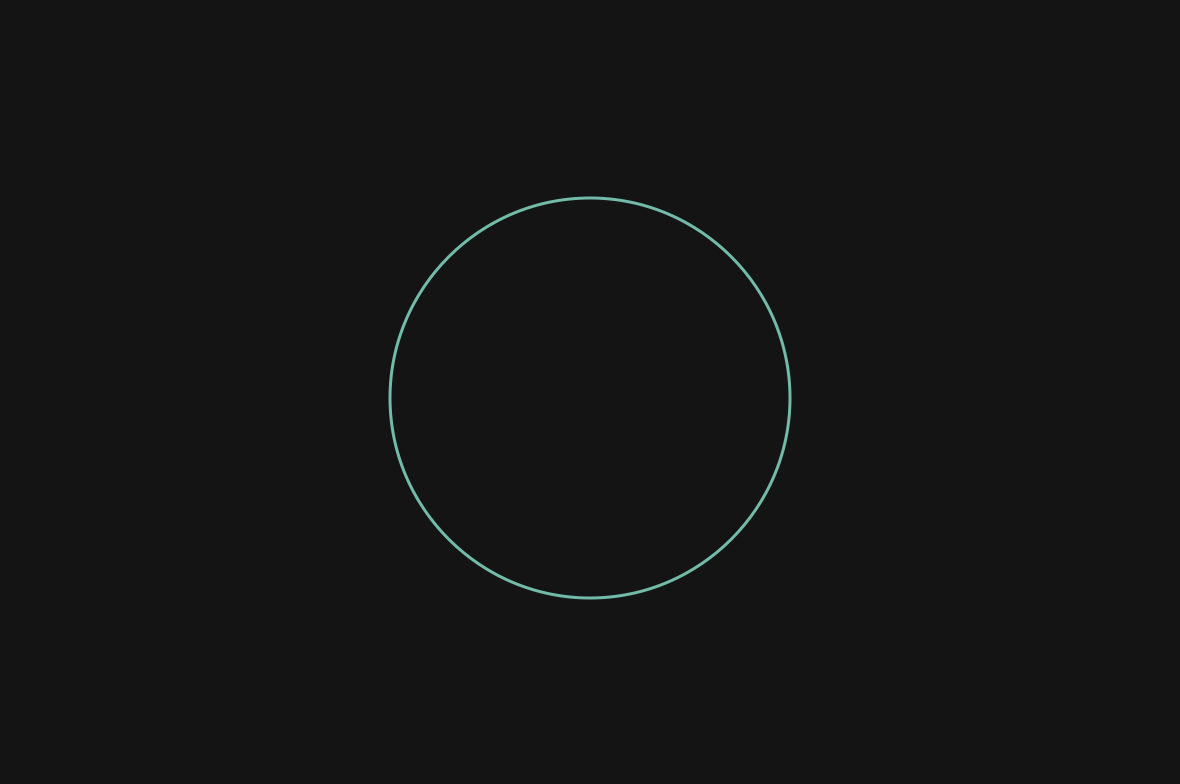
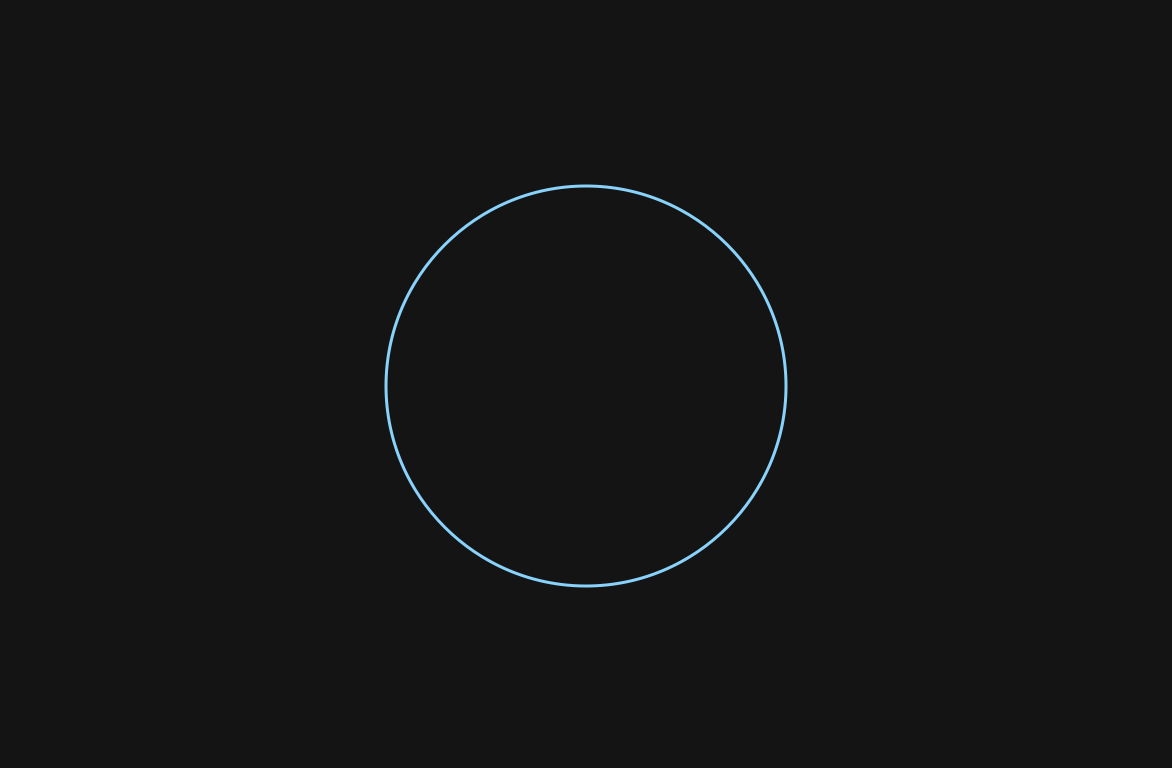
fixed juce-graphics-draw-examples article

diff --git a/posts/juce-graphics-draw-examples.md b/posts/juce-graphics-draw-examples.md
@@ -12,11 +12,11 @@ image: 'https://suzuki-kengo.dev/images/juce-graphics-draw-examples/juce-graphic
 void MainComponent::paint (juce::Graphics& g)
 {
     auto black = juce::Colour::fromFloatRGBA (0.08f, 0.08f, 0.08f, 1.0f);
-    auto green = juce::Colour::fromFloatRGBA (0.34f, 0.74f, 0.66f, 1.0f);
+    auto blue  = juce::Colour::fromFloatRGBA (0.43f, 0.83f, 1.0f,  1.0f);
 
     g.fillAll (black);
 
-    g.setColour (green);
+    g.setColour (blue);
     g.setFont (25.0f);
     g.drawSingleLineText ("Suzuki Kengo", 300, 200,
                           juce::Justification::right);
@@ -31,11 +31,11 @@ void MainComponent::paint (juce::Graphics& g)
 void MainComponent::paint (juce::Graphics& g)
 {
     auto black = juce::Colour::fromFloatRGBA (0.08f, 0.08f, 0.08f, 1.0f);
-    auto green = juce::Colour::fromFloatRGBA (0.34f, 0.74f, 0.66f, 1.0f);
+    auto blue  = juce::Colour::fromFloatRGBA (0.43f, 0.83f, 1.0f,  1.0f);
 
     g.fillAll (black);
 
-    g.setColour (green);
+    g.setColour (blue);
     g.setFont (25.0f);
     g.drawMultiLineText ("Suzuki Kengo", 350, 100, 50,
                          juce::Justification::left,
@@ -51,11 +51,11 @@ void MainComponent::paint (juce::Graphics& g)
 void MainComponent::paint (juce::Graphics& g)
 {
     auto black = juce::Colour::fromFloatRGBA (0.08f, 0.08f, 0.08f, 1.0f);
-    auto green = juce::Colour::fromFloatRGBA (0.34f, 0.74f, 0.66f, 1.0f);
+    auto blue  = juce::Colour::fromFloatRGBA (0.43f, 0.83f, 1.0f,  1.0f);
 
     g.fillAll (black);
 
-    g.setColour (green);
+    g.setColour (blue);
     g.setFont (25.0f);
     g.drawText ("Suzuki Kengo",
                 getLocalBounds().withSizeKeepingCentre (50, 50),
@@ -70,11 +70,11 @@ void MainComponent::paint (juce::Graphics& g)
 void MainComponent::paint (juce::Graphics& g)
 {
     auto black = juce::Colour::fromFloatRGBA (0.08f, 0.08f, 0.08f, 1.0f);
-    auto green = juce::Colour::fromFloatRGBA (0.34f, 0.74f, 0.66f, 1.0f);
+    auto blue  = juce::Colour::fromFloatRGBA (0.43f, 0.83f, 1.0f,  1.0f);
 
     g.fillAll (black);
 
-    g.setColour (green);
+    g.setColour (blue);
     g.setFont (25.0f);
     g.drawText ("Suzuki Kengo",
                 getLocalBounds().withSizeKeepingCentre (50, 100),
@@ -91,11 +91,11 @@ void MainComponent::paint (juce::Graphics& g)
 void MainComponent::paint (juce::Graphics& g)
 {
     auto black = juce::Colour::fromFloatRGBA (0.08f, 0.08f, 0.08f, 1.0f);
-    auto green = juce::Colour::fromFloatRGBA (0.34f, 0.74f, 0.66f, 1.0f);
+    auto blue  = juce::Colour::fromFloatRGBA (0.43f, 0.83f, 1.0f,  1.0f);
 
     g.fillAll (black);
 
-    g.setColour (green);
+    g.setColour (blue);
     g.setFont (25.0f);
     g.drawFittedText ("Suzuki Kengo",
                       getLocalBounds().withSizeKeepingCentre (150, 50),
@@ -110,11 +110,11 @@ void MainComponent::paint (juce::Graphics& g)
 void MainComponent::paint (juce::Graphics& g)
 {
     auto black = juce::Colour::fromFloatRGBA (0.08f, 0.08f, 0.08f, 1.0f);
-    auto green = juce::Colour::fromFloatRGBA (0.34f, 0.74f, 0.66f, 1.0f);
+    auto blue  = juce::Colour::fromFloatRGBA (0.43f, 0.83f, 1.0f,  1.0f);
 
     g.fillAll (black);
 
-    g.setColour (green);
+    g.setColour (blue);
     g.setFont (25.0f);
     g.drawFittedText ("Suzuki Kengo",
                       getLocalBounds().withSizeKeepingCentre (80, 50),
@@ -131,11 +131,11 @@ void MainComponent::paint (juce::Graphics& g)
 void MainComponent::paint (juce::Graphics& g)
 {
     auto black = juce::Colour::fromFloatRGBA (0.08f, 0.08f, 0.08f, 1.0f);
-    auto green = juce::Colour::fromFloatRGBA (0.34f, 0.74f, 0.66f, 1.0f);
+    auto blue  = juce::Colour::fromFloatRGBA (0.43f, 0.83f, 1.0f,  1.0f);
 
     g.fillAll (black);
 
-    g.setColour (green);
+    g.setColour (blue);
     g.drawRect (getLocalBounds().withSizeKeepingCentre (300.0f, 100.0f));
 }
 ```
@@ -148,11 +148,11 @@ void MainComponent::paint (juce::Graphics& g)
 void MainComponent::paint (juce::Graphics& g)
 {
     auto black = juce::Colour::fromFloatRGBA (0.08f, 0.08f, 0.08f, 1.0f);
-    auto green = juce::Colour::fromFloatRGBA (0.34f, 0.74f, 0.66f, 1.0f);
+    auto blue  = juce::Colour::fromFloatRGBA (0.43f, 0.83f, 1.0f,  1.0f);
 
     g.fillAll (black);
 
-    g.setColour (green);
+    g.setColour (blue);
     g.drawRoundedRectangle (getLocalBounds().toFloat().withSizeKeepingCentre (300.0f, 100.0f),
                             50.0f, 2.0f);
 }
@@ -166,11 +166,11 @@ void MainComponent::paint (juce::Graphics& g)
 void MainComponent::paint (juce::Graphics& g)
 {
     auto black = juce::Colour::fromFloatRGBA (0.08f, 0.08f, 0.08f, 1.0f);
-    auto green = juce::Colour::fromFloatRGBA (0.34f, 0.74f, 0.66f, 1.0f);
+    auto blue  = juce::Colour::fromFloatRGBA (0.43f, 0.83f, 1.0f,  1.0f);
 
     g.fillAll (black);
 
-    g.setColour (green);
+    g.setColour (blue);
     g.drawEllipse (getLocalBounds().toFloat().withSizeKeepingCentre (200.0f, 200.0f),
                    1.5f);
 }
@@ -184,11 +184,11 @@ void MainComponent::paint (juce::Graphics& g)
 void MainComponent::paint (juce::Graphics& g)
 {
     auto black = juce::Colour::fromFloatRGBA (0.08f, 0.08f, 0.08f, 1.0f);
-    auto green = juce::Colour::fromFloatRGBA (0.34f, 0.74f, 0.66f, 1.0f);
+    auto blue  = juce::Colour::fromFloatRGBA (0.43f, 0.83f, 1.0f,  1.0f);
 
     g.fillAll (black);
 
-    g.setColour (green);
+    g.setColour (blue);
     g.drawLine (juce::Line<float> (50.0f, 150.0f, 450.0f, 250.0f), 2.0f);
 }
 ```
@@ -201,12 +201,12 @@ void MainComponent::paint (juce::Graphics& g)
 void MainComponent::paint (juce::Graphics& g)
 {
     auto black = juce::Colour::fromFloatRGBA (0.08f, 0.08f, 0.08f, 1.0f);
-    auto green = juce::Colour::fromFloatRGBA (0.34f, 0.74f, 0.66f, 1.0f);
+    auto blue  = juce::Colour::fromFloatRGBA (0.43f, 0.83f, 1.0f,  1.0f);
 
     g.fillAll (black);
 
     const float dashLength[] = { 5.0f, 7.0f, 5.0f, 15.0f };
-    g.setColour (green);
+    g.setColour (blue);
     g.drawDashedLine (juce::Line<float> (50.0f, 100.0f, 550.0f, 200.0f),
                       dashLength, 4, 5.0f, 2);
 }
@@ -218,12 +218,12 @@ void MainComponent::paint (juce::Graphics& g)
 void MainComponent::paint (juce::Graphics& g)
 {
     auto black = juce::Colour::fromFloatRGBA (0.08f, 0.08f, 0.08f, 1.0f);
-    auto green = juce::Colour::fromFloatRGBA (0.34f, 0.74f, 0.66f, 1.0f);
+    auto blue  = juce::Colour::fromFloatRGBA (0.43f, 0.83f, 1.0f,  1.0f);
 
     g.fillAll (black);
 
     const float dashLength[] = { 5.0f, 20.0f, 5.0f, 50.0f };
-    g.setColour (green);
+    g.setColour (blue);
     g.drawDashedLine (juce::Line<float> (50.0f, 250.0f, 550.0f, 100.0f),
                       dashLength, 4, 5.0f, 0);
 }
@@ -237,11 +237,11 @@ void MainComponent::paint (juce::Graphics& g)
 void MainComponent::paint (juce::Graphics& g)
 {
     auto black = juce::Colour::fromFloatRGBA (0.08f, 0.08f, 0.08f, 1.0f);
-    auto green = juce::Colour::fromFloatRGBA (0.34f, 0.74f, 0.66f, 1.0f);
+    auto blue  = juce::Colour::fromFloatRGBA (0.43f, 0.83f, 1.0f,  1.0f);
 
     g.fillAll (black);
 
-    g.setColour (green);
+    g.setColour (blue);
     g.drawVerticalLine (300, 0.0f, 250.0f);
 }
 ```
@@ -254,11 +254,11 @@ void MainComponent::paint (juce::Graphics& g)
 void MainComponent::paint (juce::Graphics& g)
 {
     auto black = juce::Colour::fromFloatRGBA (0.08f, 0.08f, 0.08f, 1.0f);
-    auto green = juce::Colour::fromFloatRGBA (0.34f, 0.74f, 0.66f, 1.0f);
+    auto blue  = juce::Colour::fromFloatRGBA (0.43f, 0.83f, 1.0f,  1.0f);
 
     g.fillAll (black);
 
-    g.setColour (green);
+    g.setColour (blue);
     g.drawHorizontalLine (200, 0.0f, 450.0f);
 }
 ```
@@ -271,11 +271,11 @@ void MainComponent::paint (juce::Graphics& g)
 void MainComponent::paint (juce::Graphics& g)
 {
     auto black = juce::Colour::fromFloatRGBA (0.08f, 0.08f, 0.08f, 1.0f);
-    auto green = juce::Colour::fromFloatRGBA (0.34f, 0.74f, 0.66f, 1.0f);
+    auto blue  = juce::Colour::fromFloatRGBA (0.43f, 0.83f, 1.0f,  1.0f);
 
     g.fillAll (black);
 
-    g.setColour (green);
+    g.setColour (blue);
     g.drawArrow (juce::Line<float> (100.0f, 100.0f, 500.0f, 250.0f),
                  2.5f, 50.0f, 50.0f);
 }
@@ -289,14 +289,14 @@ void MainComponent::paint (juce::Graphics& g)
 void MainComponent::paint (juce::Graphics& g)
 {
     auto black = juce::Colour::fromFloatRGBA (0.08f, 0.08f, 0.08f, 1.0f);
-    auto green = juce::Colour::fromFloatRGBA (0.34f, 0.74f, 0.66f, 1.0f);
+    auto blue  = juce::Colour::fromFloatRGBA (0.43f, 0.83f, 1.0f,  1.0f);
 
     g.fillAll (black);
 
     auto testImage = juce::Image (juce::Image::PixelFormat::ARGB,
                                   200, 200, true);
     juce::Graphics testGraphics (testImage);
-    testGraphics.setColour (green);
+    testGraphics.setColour (blue);
     testGraphics.fillRect (testImage.getBounds());
 
     g.drawImageAt (testImage, 50, 100);
@@ -311,14 +311,14 @@ void MainComponent::paint (juce::Graphics& g)
 void MainComponent::paint (juce::Graphics& g)
 {
     auto black = juce::Colour::fromFloatRGBA (0.08f, 0.08f, 0.08f, 1.0f);
-    auto green = juce::Colour::fromFloatRGBA (0.34f, 0.74f, 0.66f, 1.0f);
+    auto blue  = juce::Colour::fromFloatRGBA (0.43f, 0.83f, 1.0f,  1.0f);
 
     g.fillAll (black);
 
     auto testImage = juce::Image (juce::Image::PixelFormat::ARGB,
                                   200, 200, true);
     juce::Graphics testGraphics (testImage);
-    testGraphics.setColour (green);
+    testGraphics.setColour (blue);
     testGraphics.fillRect (testImage.getBounds());
 
     g.drawImage (testImage, getLocalBounds().toFloat(),
@@ -334,14 +334,14 @@ void MainComponent::paint (juce::Graphics& g)
 void MainComponent::paint (juce::Graphics& g)
 {
     auto black = juce::Colour::fromFloatRGBA (0.08f, 0.08f, 0.08f, 1.0f);
-    auto green = juce::Colour::fromFloatRGBA (0.34f, 0.74f, 0.66f, 1.0f);
+    auto blue  = juce::Colour::fromFloatRGBA (0.43f, 0.83f, 1.0f,  1.0f);
 
     g.fillAll (black);
 
     auto testImage = juce::Image (juce::Image::PixelFormat::ARGB,
                                   200, 200, true);
     juce::Graphics testGraphics (testImage);
-    testGraphics.setColour (green);
+    testGraphics.setColour (blue);
     testGraphics.fillRect (testImage.getBounds());
 
     g.drawImageTransformed (testImage, juce::AffineTransform::translation (300, 100));
@@ -356,14 +356,14 @@ void MainComponent::paint (juce::Graphics& g)
 void MainComponent::paint (juce::Graphics& g)
 {
     auto black = juce::Colour::fromFloatRGBA (0.08f, 0.08f, 0.08f, 1.0f);
-    auto green = juce::Colour::fromFloatRGBA (0.34f, 0.74f, 0.66f, 1.0f);
+    auto blue  = juce::Colour::fromFloatRGBA (0.43f, 0.83f, 1.0f,  1.0f);
 
     g.fillAll (black);
 
     auto testImage = juce::Image (juce::Image::PixelFormat::ARGB,
                                   200, 200, true);
     juce::Graphics testGraphics (testImage);
-    testGraphics.setColour (green);
+    testGraphics.setColour (blue);
     testGraphics.fillRect (testImage.getBounds());
 
     g.drawImageWithin (testImage, 300, 50, 50, 50, juce::RectanglePlacement::stretchToFit);
